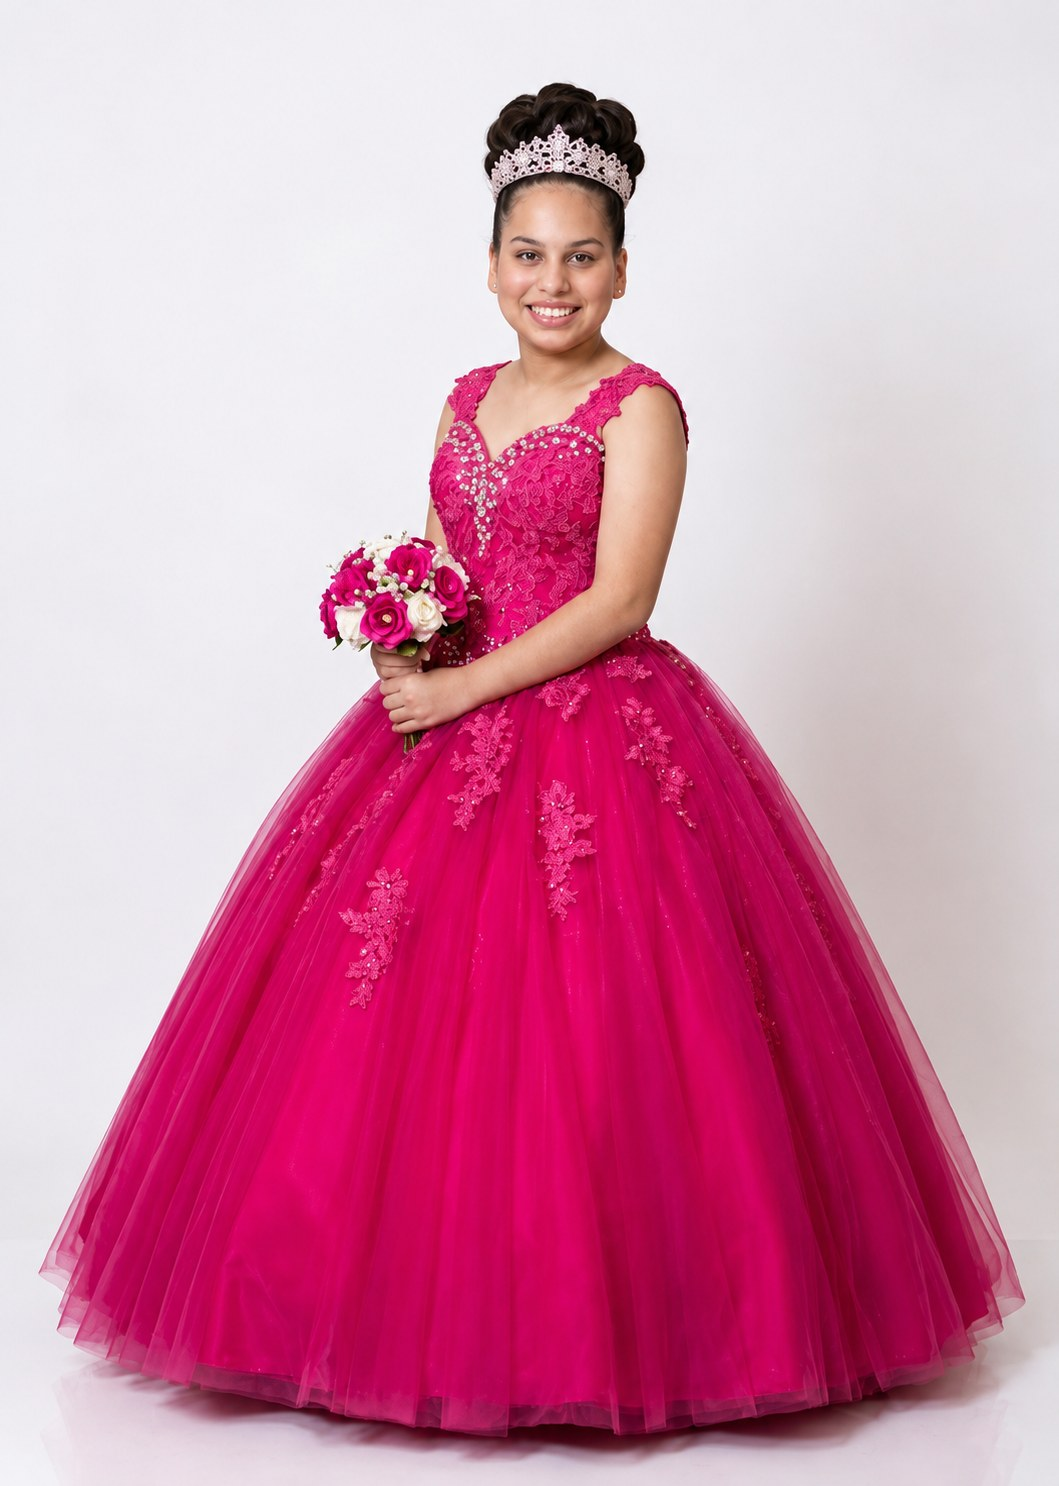
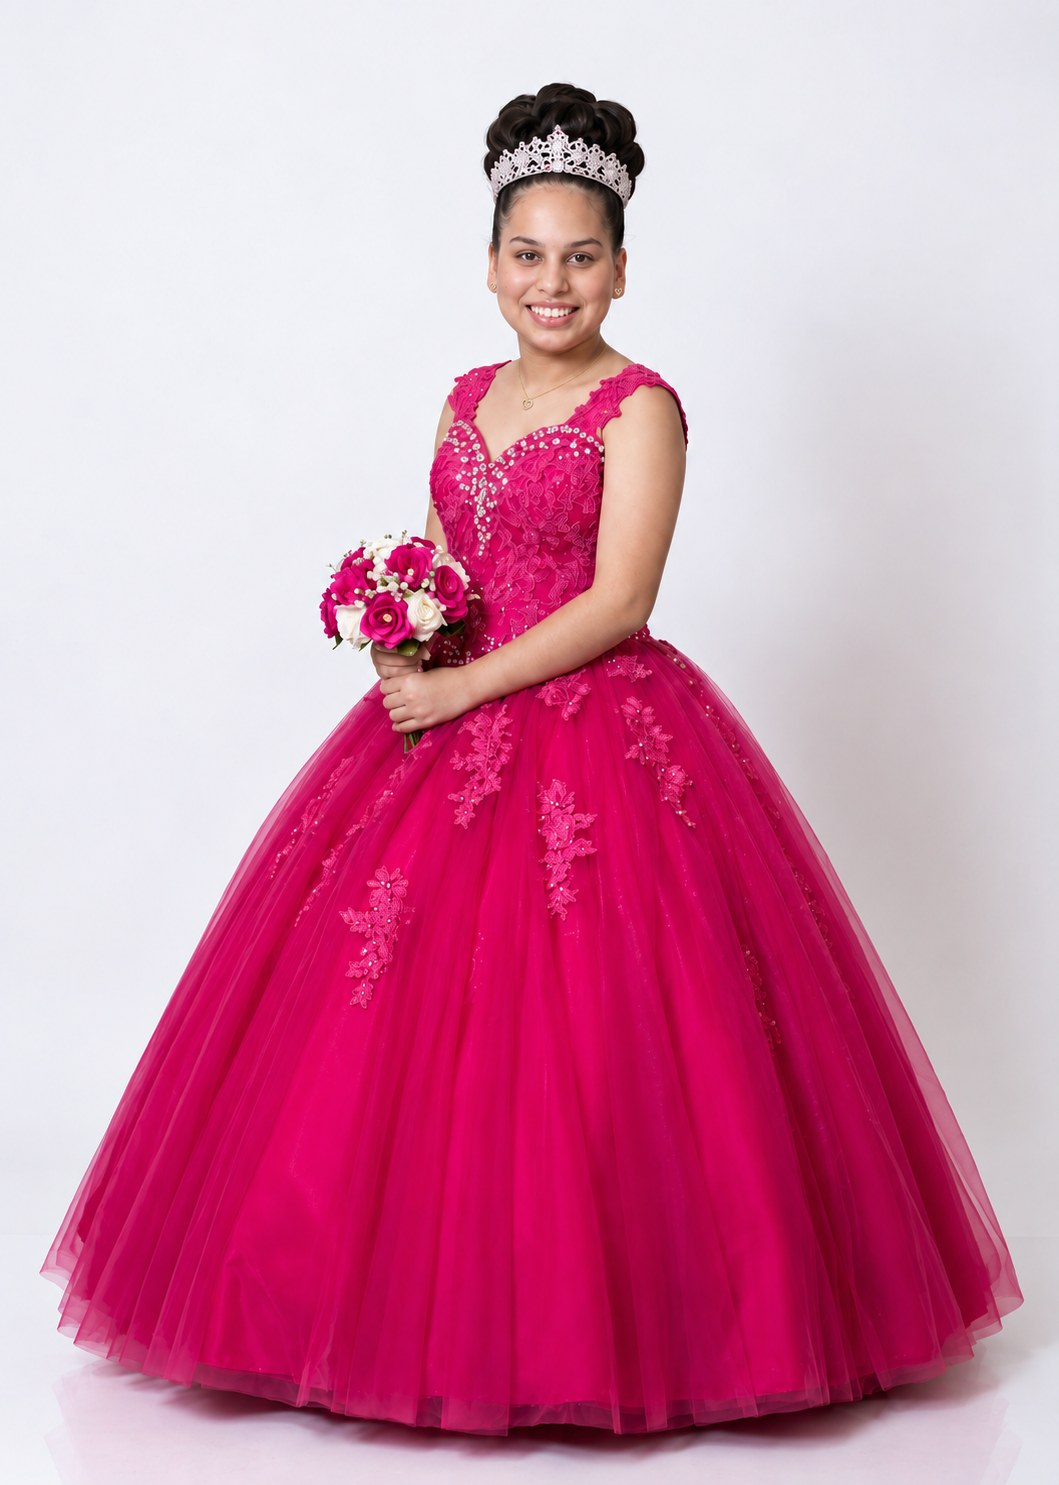
Add files via upload

diff --git a/index.html b/index.html
@@ -5,6 +5,22 @@
     <meta name="viewport" content="width=device-width, initial-scale=1.0">
     <meta name="robots" content="noindex, nofollow">
     <title>Meryan Tejada Gómez - Mis XV Años</title>
+    <meta name="description" content="Estás invitado a celebrar mis XV años. Sábado 26 de diciembre, 7:00 PM · Rancho Nana, Salcedo.">
+    <!-- Vista previa al compartir por WhatsApp / Facebook -->
+    <meta property="og:type" content="website">
+    <meta property="og:site_name" content="Invitavale">
+    <meta property="og:url" content="https://invitavale.com/Meryan-Tejada-XV/">
+    <meta property="og:title" content="Mis XV Años · Meryan Tejada Gómez">
+    <meta property="og:description" content="Estás invitado a celebrar mis XV años. Sábado 26 de diciembre, 7:00 PM · Rancho Nana, Salcedo.">
+    <meta property="og:image" content="https://invitavale.com/Meryan-Tejada-XV/portada-compartir.jpg">
+    <meta property="og:image:secure_url" content="https://invitavale.com/Meryan-Tejada-XV/portada-compartir.jpg">
+    <meta property="og:image:type" content="image/jpeg">
+    <meta property="og:image:width" content="1200">
+    <meta property="og:image:height" content="630">
+    <meta property="og:image:alt" content="Meryan Tejada Gómez en su vestido de XV años">
+    <meta property="og:locale" content="es_DO">
+    <meta name="twitter:card" content="summary_large_image">
+    <meta name="twitter:image" content="https://invitavale.com/Meryan-Tejada-XV/portada-compartir.jpg">
     <link rel="preload" as="image" href="foto0.jpg">
     <meta name="theme-color" content="#C2185B">
     <link rel="preconnect" href="https://fonts.googleapis.com">
